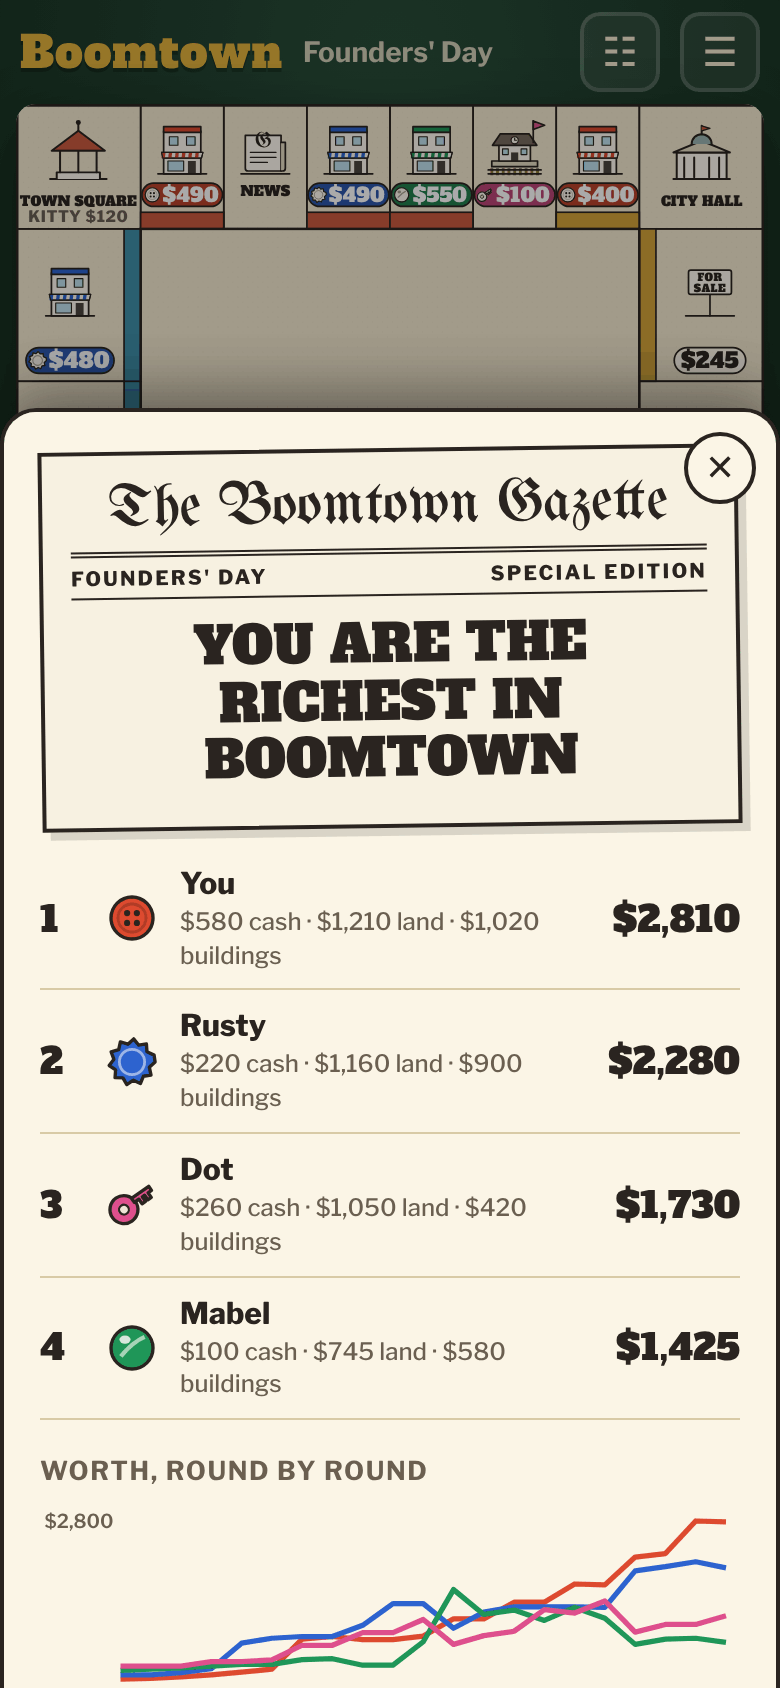
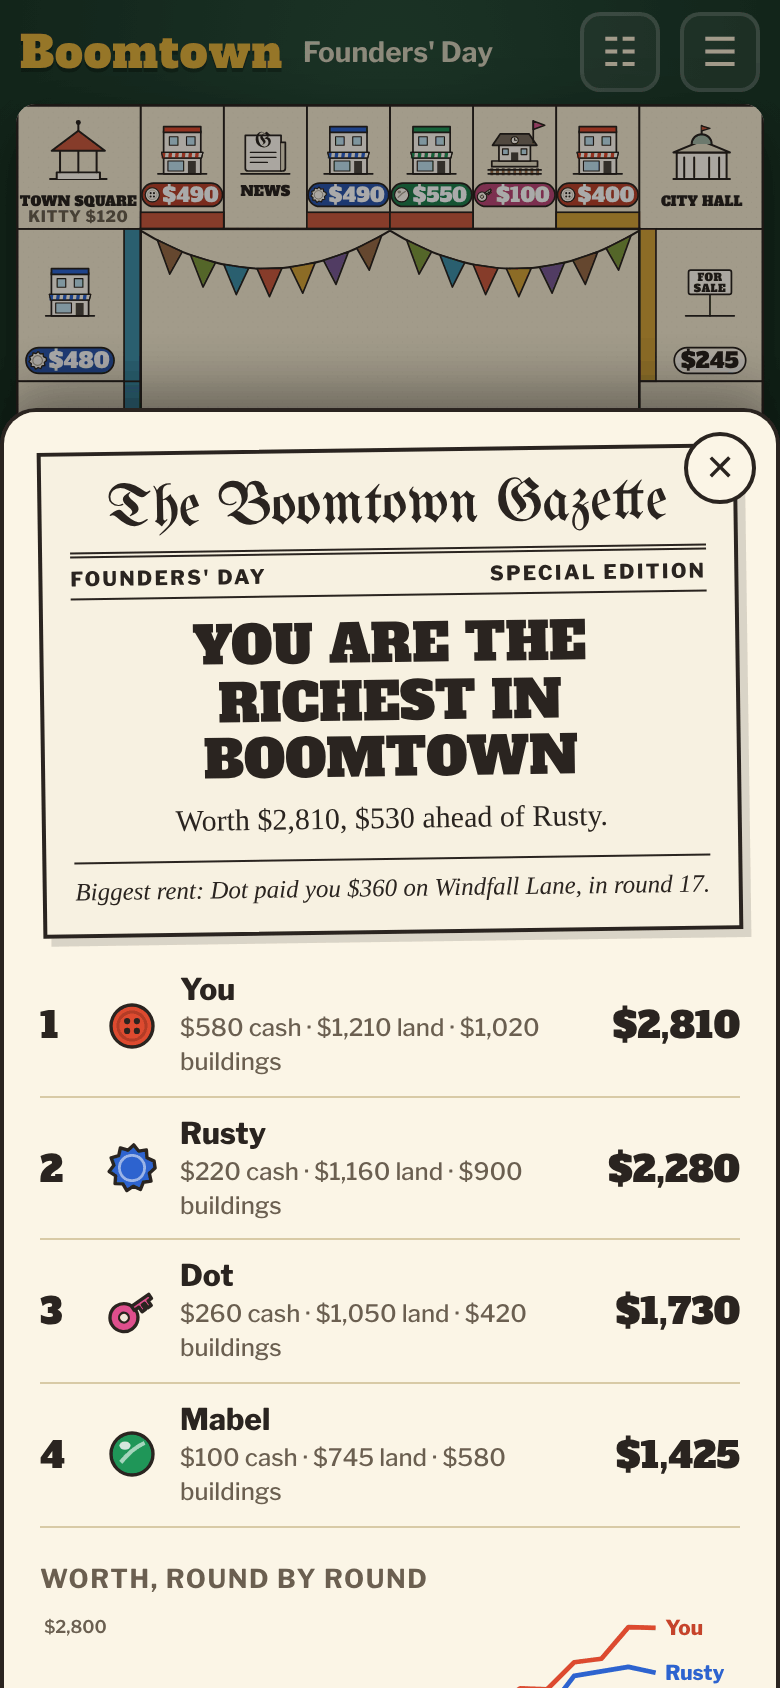
Redraw the title and Founders' Day screenshots, and say what's new in the README
The title screen now has Pace under the game's length, and Founders' Day's edition has its story line and the game's biggest rent, so their pictures are redrawn; the move and Gazette pictures and the link preview show nothing that changed, and are kept. The README's Founders' Day picture is described as it now reads, and How it plays says a tap on the board hurries a townsperson along, and what Founders' Day's edition and Share the Gazette do.

Claude-Session: https://claude.ai/code/session_01PQbLNVJ8KKLwSDBzcGfBFP

diff --git a/README.md b/README.md
@@ -9,7 +9,7 @@
   &nbsp;
   <img src="docs/phone-gazette.png" alt="The Boomtown Gazette, round 14: DOCTOR BUILDS ON THE HILL. Everyone wants the view now. Hilltop land goes up 20%" width="250">
   &nbsp;
-  <img src="docs/phone-founders-day.png" alt="Founders' Day: the Gazette's special edition says You are the richest in Boomtown, with $2,810 against Rusty's $2,280, then each player's cash, land and buildings, and a chart of everyone's worth round by round" width="250">
+  <img src="docs/phone-founders-day.png" alt="Founders' Day: the Gazette's special edition says You are the richest in Boomtown, worth $2,810, $530 ahead of Rusty, and that the biggest rent was Dot's $360 to you on Windfall Lane in round 17; then each player's cash, land and buildings" width="250">
 </p>
 
 ## How it plays
@@ -22,8 +22,9 @@
 - **Round the board.** The Lumberyard builds one level on one of your lots at half price. The Assessor takes $20 for every building level you own, and never less than $40, into the kitty. A depot's rent is $40, or $100 when one player owns both, and nobody can make you sell a depot while you own both.
 - **The Gazette.** Headlines move land values up and down, pay out at the county fair, or burst your pipes. An estate sale lets you buy any empty lot at half price.
 - **Nobody goes out.** Can't pay? The bank lends you the rest and adds a tenth, rounded up to the next $5 (at least $5), each time you pass Payday, and money coming in pays it off first. You can also sell buildings back for half what they cost.
-- **The townsfolk.** Mabel keeps a cushion, Rusty buys anything with a fence round it, Dot wants whole streets and will force a sale to get one, and Gus would rather build than buy. Any seat can be a person instead, to pass the phone round.
+- **The townsfolk.** Mabel keeps a cushion, Rusty buys anything with a fence round it, Dot wants whole streets and will force a sale to get one, and Gus would rather build than buy. Any seat can be a person instead, to pass the phone round. A tap on the middle of the board hurries a townsperson's turn along.
 - **Short, Standard or Long.** Fewer players get more rounds, so the town still fills up: a standard game is 20 rounds for four players, 30 for two.
+- **Founders' Day.** The Gazette's special edition says who's richest and by how much, with the game's biggest rent, and Share the Gazette sends the standings on as a few lines of text.
 - No account and no server. A game in progress is saved in your browser, so you can close it and carry on. It works offline and installs to a phone's home screen.
 
 ## Running it
